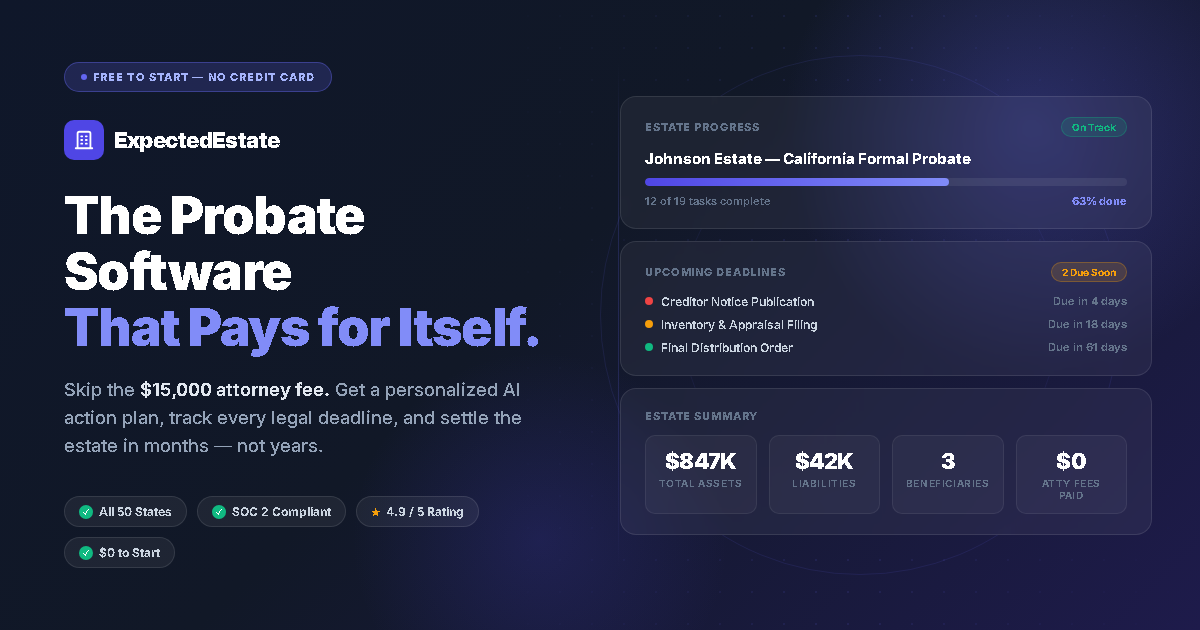
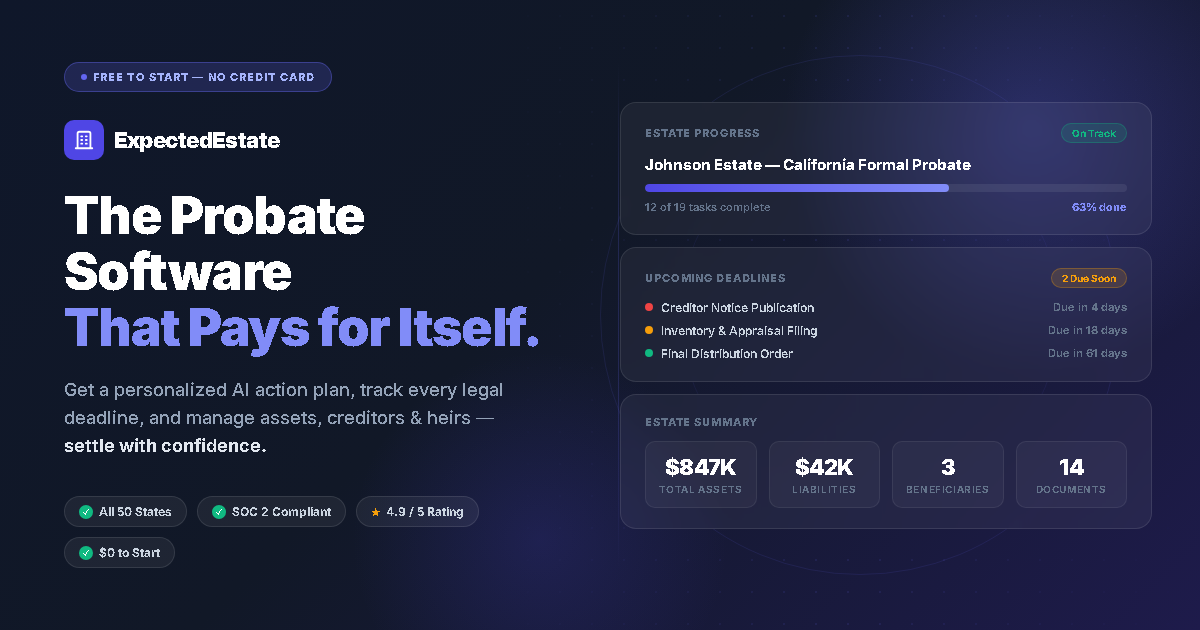
feat: new OG image v2 — brand-aligned dark hero design, attorney-neutral copy
- Regenerated og-image-v2.png (1200x630) via Playwright from new HTML template
  - Dark slate/indigo hero background matching landing page
  - Headline: The Probate Software That Pays for Itself
  - Empowerment copy, no attorney antagonism
  - Mock dashboard (progress, deadlines, estate summary)
  - Trust pills: All 50 States, SOC 2, 4.9 Rating, free to start
- Updated SEO.tsx defaultOgImage from og-dashboard.png → og-image-v2.png
- Updated og-image-template.html with clean copy

diff --git a/og-image-template.html b/og-image-template.html
@@ -388,9 +388,9 @@
     </h1>
 
     <p class="sub">
-      Skip the <strong>$15,000 attorney fee.</strong> Get a personalized
-      AI action plan, track every legal deadline, and settle the estate
-      in months — not years.
+      Get a personalized AI action plan, track every legal deadline,
+      and manage assets, creditors &amp; heirs —
+      <strong>settle with confidence.</strong>
     </p>
 
     <div class="trust-row">
@@ -481,8 +481,8 @@
           <div class="stat-label">Beneficiaries</div>
         </div>
         <div class="stat-box">
-          <div class="stat-value">$0</div>
-          <div class="stat-label">Atty Fees Paid</div>
+          <div class="stat-value">14</div>
+          <div class="stat-label">Documents</div>
         </div>
       </div>
     </div>

diff --git a/src/components/SEO.tsx b/src/components/SEO.tsx
@@ -28,7 +28,7 @@ export const SEO: React.FC<SEOProps> = ({
     const fullTitle = title ? `${title} | ${siteName}` : siteName;
     const defaultDescription = "Simplify estate settlement with clarity and peace of mind. ExpectedEstate helps executors navigate probate, track assets, and manage paperwork.";
     const siteUrl = "https://www.expectedestate.com";
-    const defaultOgImage = `${siteUrl}/og-dashboard.png`;
+    const defaultOgImage = `${siteUrl}/og-image-v2.png`;
 
     // Ensure image is absolute
     const finalOgImage = ogImage
